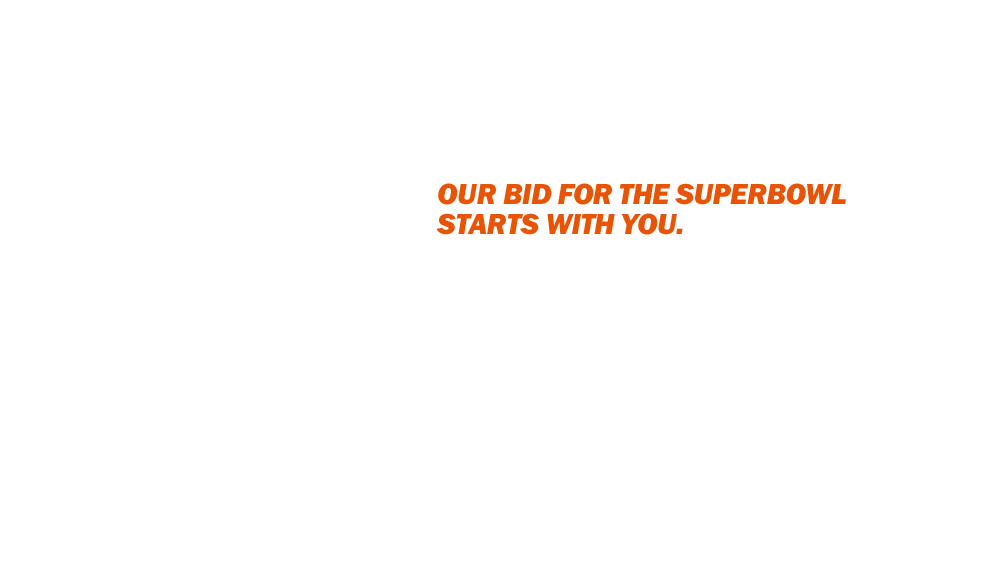
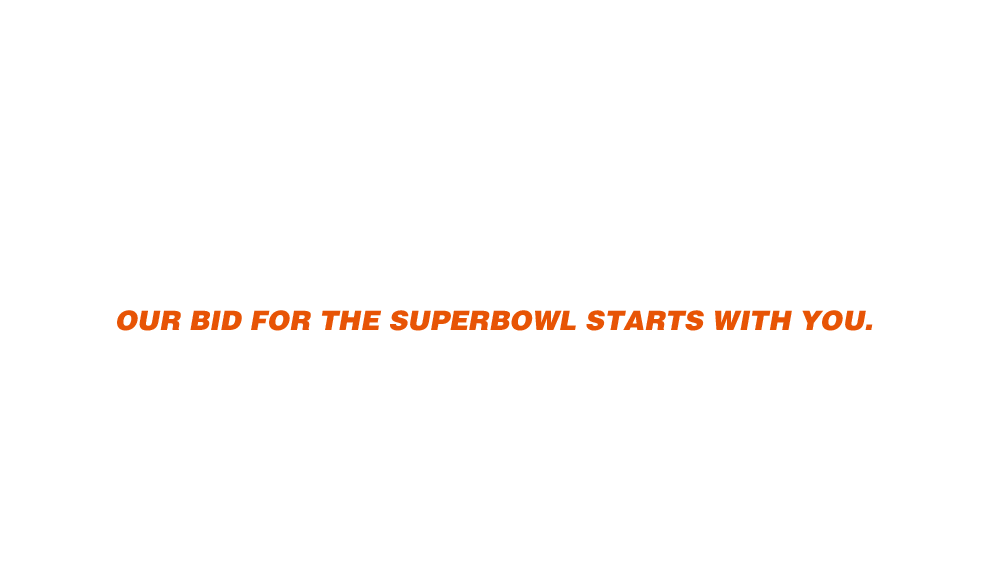
intro animation and number blocks on buzz page are clickable

Changed region(s): [[0.0932, 0.5359, 0.8697, 0.5954], [0.4349, 0.2977, 0.8697, 0.4168]]

diff --git a/css/style.css b/css/style.css
@@ -46,7 +46,7 @@ hr { border: solid #cdcdcd; border-width: 1px 0 0; clear: both; margin: 12px 30p
     margin-top: -289px;
     z-index: 20;
     
-    background: url(../images/intro_bg.png) scroll repeat;
+    background: url(../images/bg-texture-light.png) scroll repeat;
 }
 
 #introWrap {
@@ -59,9 +59,11 @@ hr { border: solid #cdcdcd; border-width: 1px 0 0; clear: both; margin: 12px 30p
     position: absolute;
     top: 0;
     left: 0;
-    opacity: 0;
-    
     width: 1004px;
+}
+
+.hidden {
+    opacity: 0;
 }
 
 
@@ -586,6 +588,15 @@ hr { border: solid #cdcdcd; border-width: 1px 0 0; clear: both; margin: 12px 30p
     margin-left: 10px;
 }
 
+.trainCompartment a, .trainCompartmentLong a {
+    display: block;
+}
+
+.trainCompartment a {
+    width: 325px;
+    height: 155px;
+}
+
 .trainCompartment:hover {
     background: white;
 }
@@ -594,6 +605,9 @@ hr { border: solid #cdcdcd; border-width: 1px 0 0; clear: both; margin: 12px 30p
 .trainCompartmentLong:first-child{
     margin-left: 0px;
 }
+
+
+
 
 /*#box3 {
 	margin: 0px 5px 0px 5px;

diff --git a/header.php b/header.php
@@ -200,7 +200,7 @@ if(!isset($_SESSION['sfsuperbowlintro'])) {
                         
                     <?php if(strpos($request, 'buzz')): ?>
                     
-                        var scroller = new Scroller('.train', 1005);
+//                        var scroller = new Scroller('.train', 1005);
                         var total = new TotalTracker('#total');
                         var It = new InstagramTracker('#instagram_photo_count');
                         var tt = new TwitterTracker('#twitter_count');
@@ -491,10 +491,11 @@ if(!isset($_SESSION['sfsuperbowlintro'])) {
             <?php if($_SESSION['sfsuperbowlintro']) : ?>
                 
                 <div id="intro">
+                    <img class="introItem " src="../images/intro_logo.png" />
                     <div id="introWrap">
                         
-                        <img class="introItem " src="../images/intro_headline.png" id="introHeadline" />
-                        <img class="introItem " src="../images/intro_copy.png" id="introCopy" />
+                        <img class="introItem hidden" src="../images/intro_headline.png" id="introHeadline" />
+                        <img class="introItem hidden" src="../images/intro_copy.png" id="introCopy" />
                         
                         <!-- text -->
                         <!--<img src="../images/intro_bg.png" id="introAnimation" />-->
